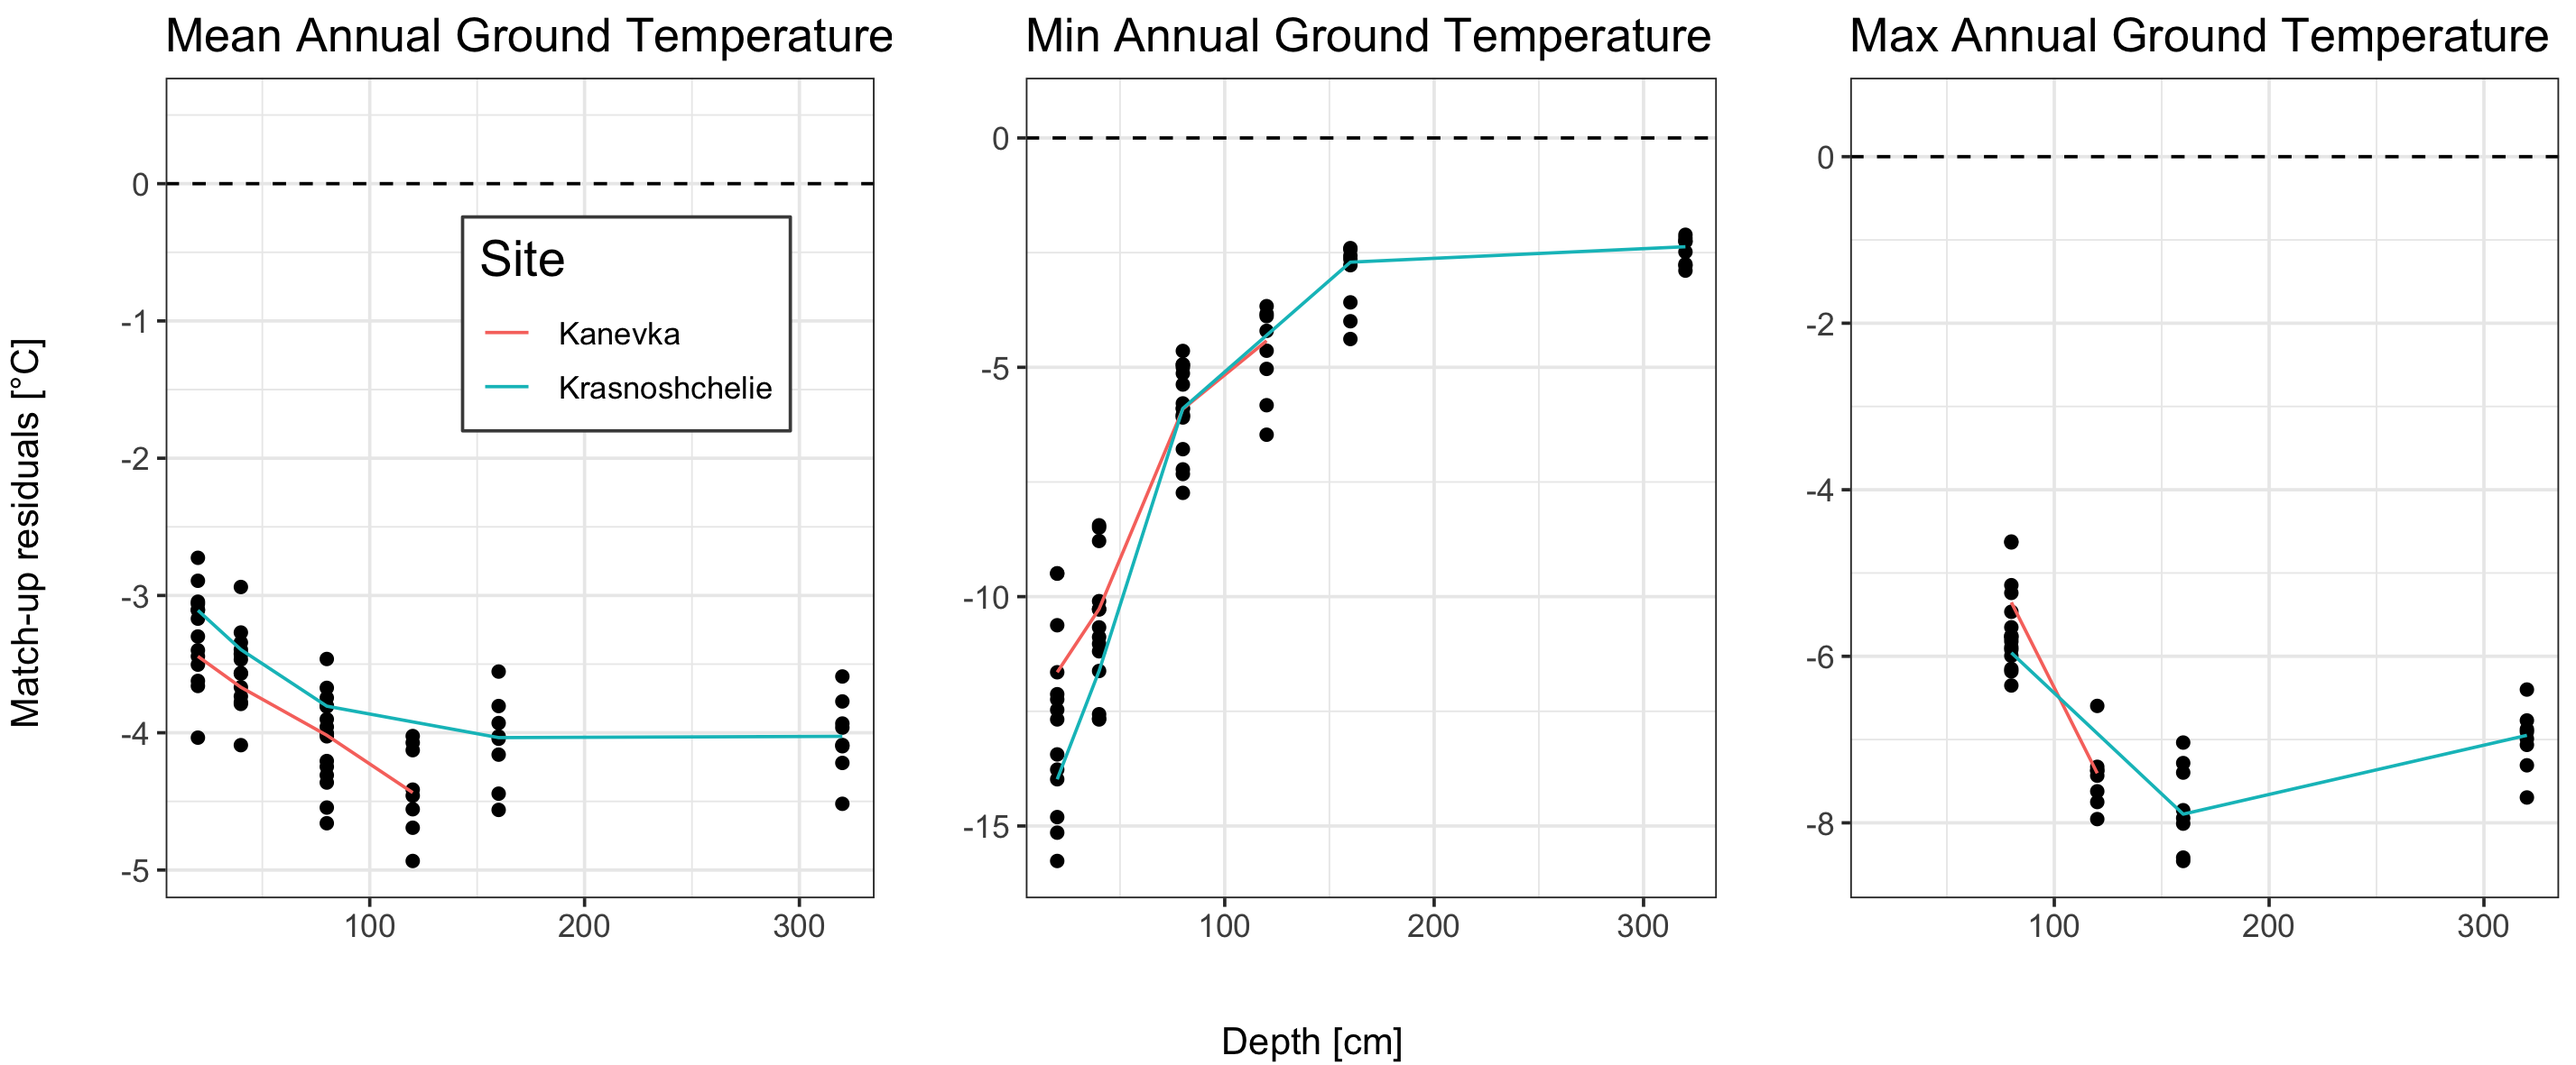
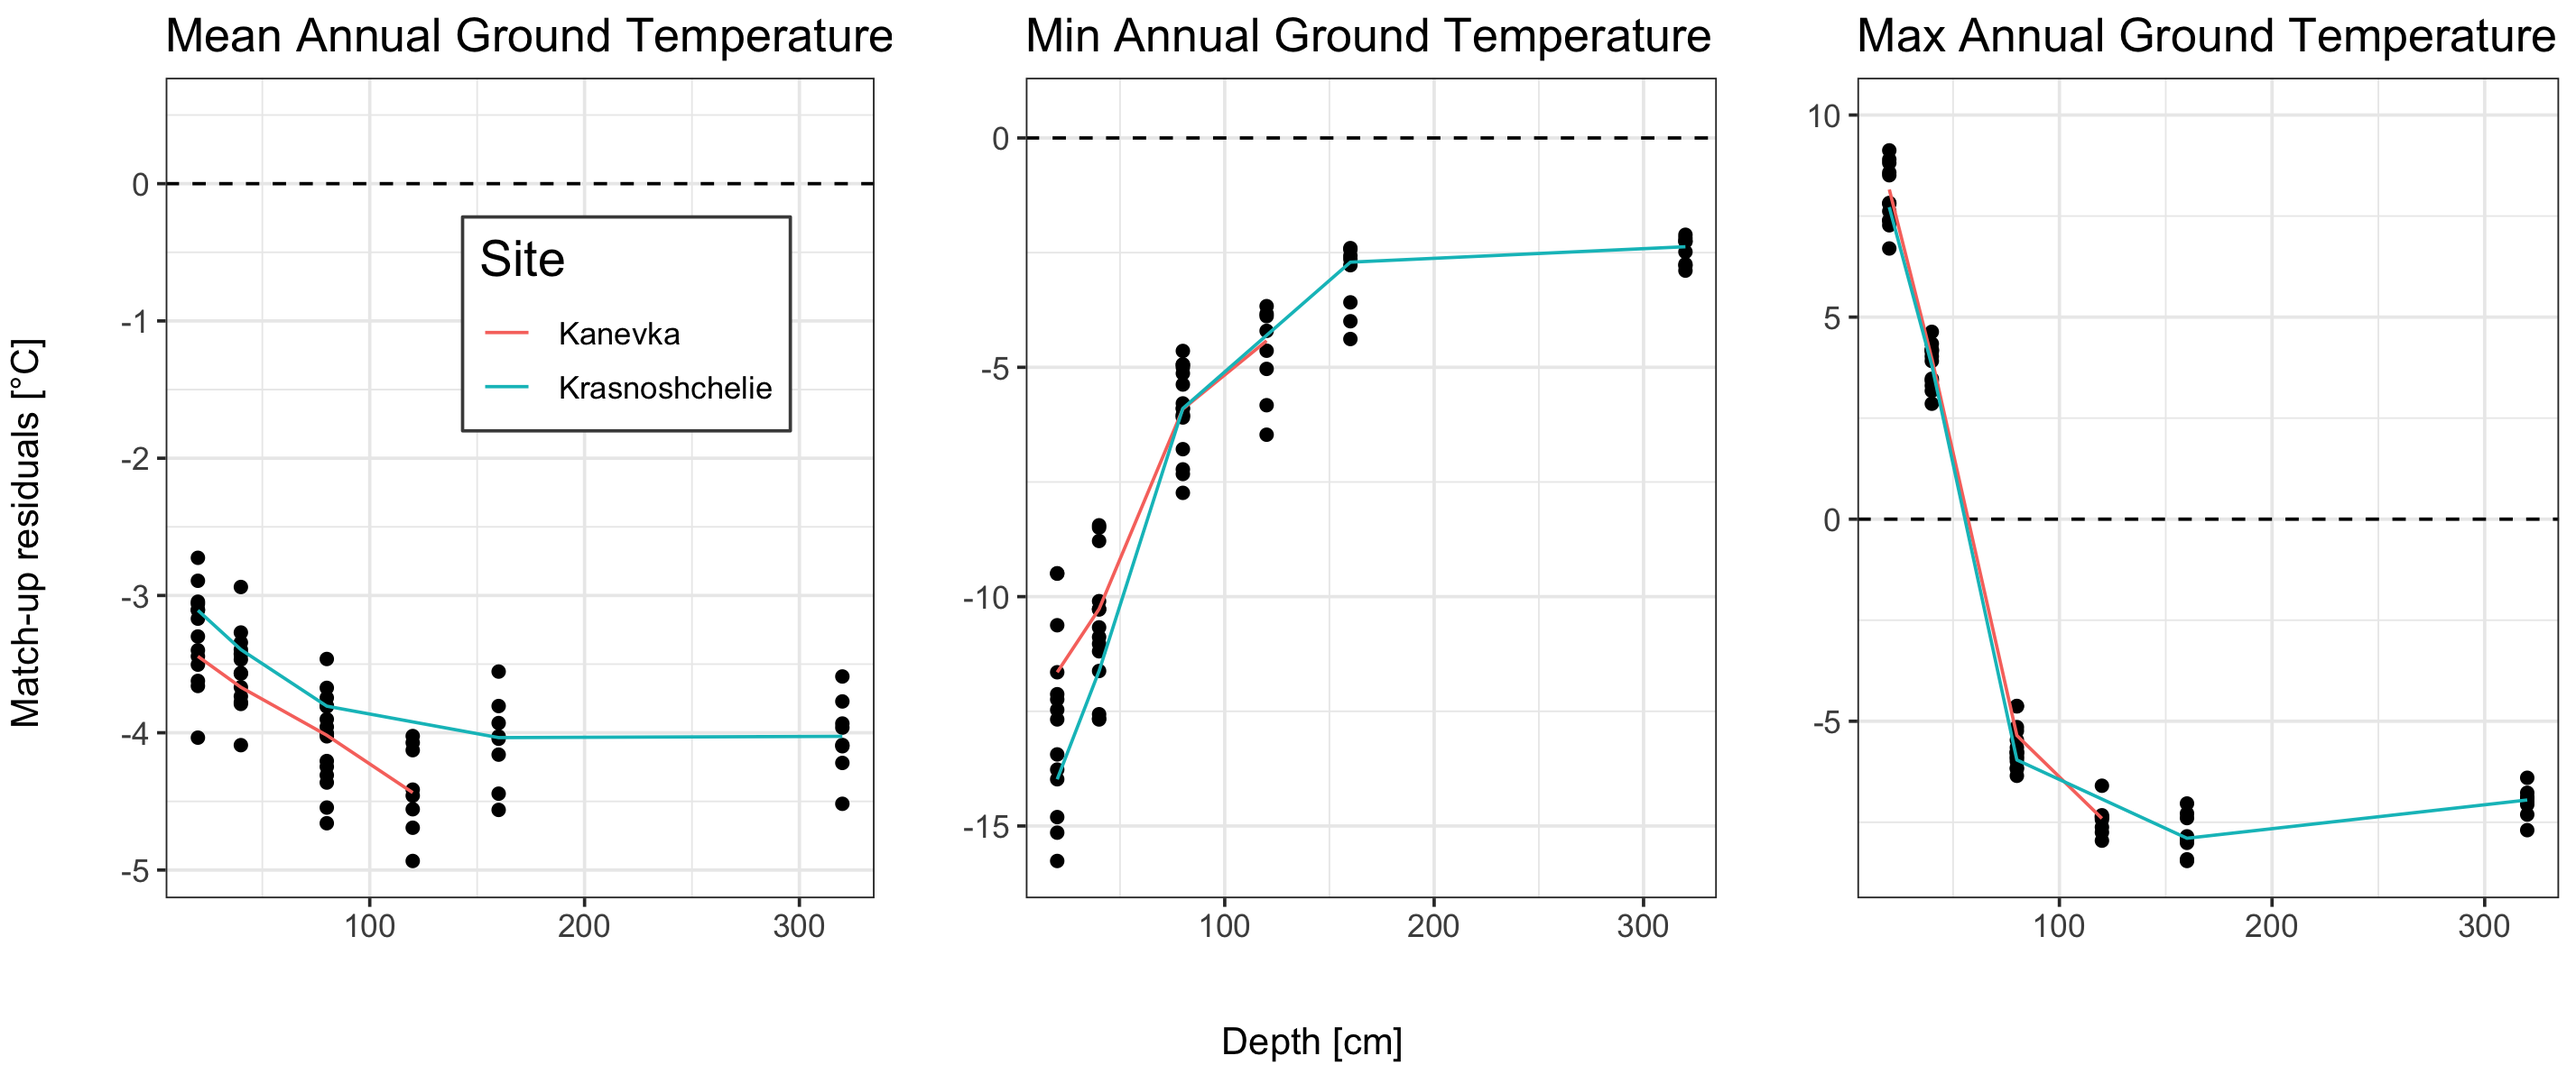
maxmin

diff --git a/docs/Match-up_2.html b/docs/Match-up_2.html
@@ -324,7 +324,8 @@ Summary plot
     ylim(min(v3match %&gt;% filter(Type==&quot;mean&quot;) %&gt;% pull(resid)), 0.5) +
     geom_hline(yintercept = 0, linetype = &quot;dashed&quot;) + 
     labs(y = &quot;&quot;, x = &quot;&quot;, title = &quot;Mean Annual Ground Temperature&quot;, col = &quot;Site&quot;) +
-    geom_line(data = v3match %&gt;% filter(Type==&quot;mean&quot;) %&gt;% group_by(Name, Depth) %&gt;% summarise(mSite = median(resid)),
+    geom_line(data = v3match %&gt;% filter(Type==&quot;mean&quot;) %&gt;% group_by(Name, Depth) %&gt;% 
+    summarise(mSite = median(resid)),
               mapping = aes(x = as.numeric(as.character(Depth)), y = mSite, col = Name)) +
     theme_bw() +
     theme(text = element_text(size=rel(4)), plot.title = element_text(size=15),
@@ -335,7 +336,7 @@ Summary plot
   
   max &lt;- ggplot(NULL, aes(x,y)) +
     geom_point(data = v3match %&gt;% filter(Type==&quot;max&quot;), mapping = aes(as.numeric(as.character(Depth)), resid)) +
-    ylim(min(v3match %&gt;% filter(Type==&quot;max&quot;) %&gt;% pull(resid)), 0.5) +
+    ylim(min(v3match %&gt;% filter(Type==&quot;max&quot;) %&gt;% pull(resid)), 10) +
     geom_hline(yintercept = 0, linetype = &quot;dashed&quot;) + 
     labs(y = &quot;&quot;, x = &quot;&quot;, title = &quot;Max Annual Ground Temperature&quot;, col = &quot;Site&quot;) +
     geom_line(data = v3match %&gt;% filter(Type==&quot;max&quot;) %&gt;% group_by(Name, Depth) %&gt;% summarise(mSite = median(resid)),
